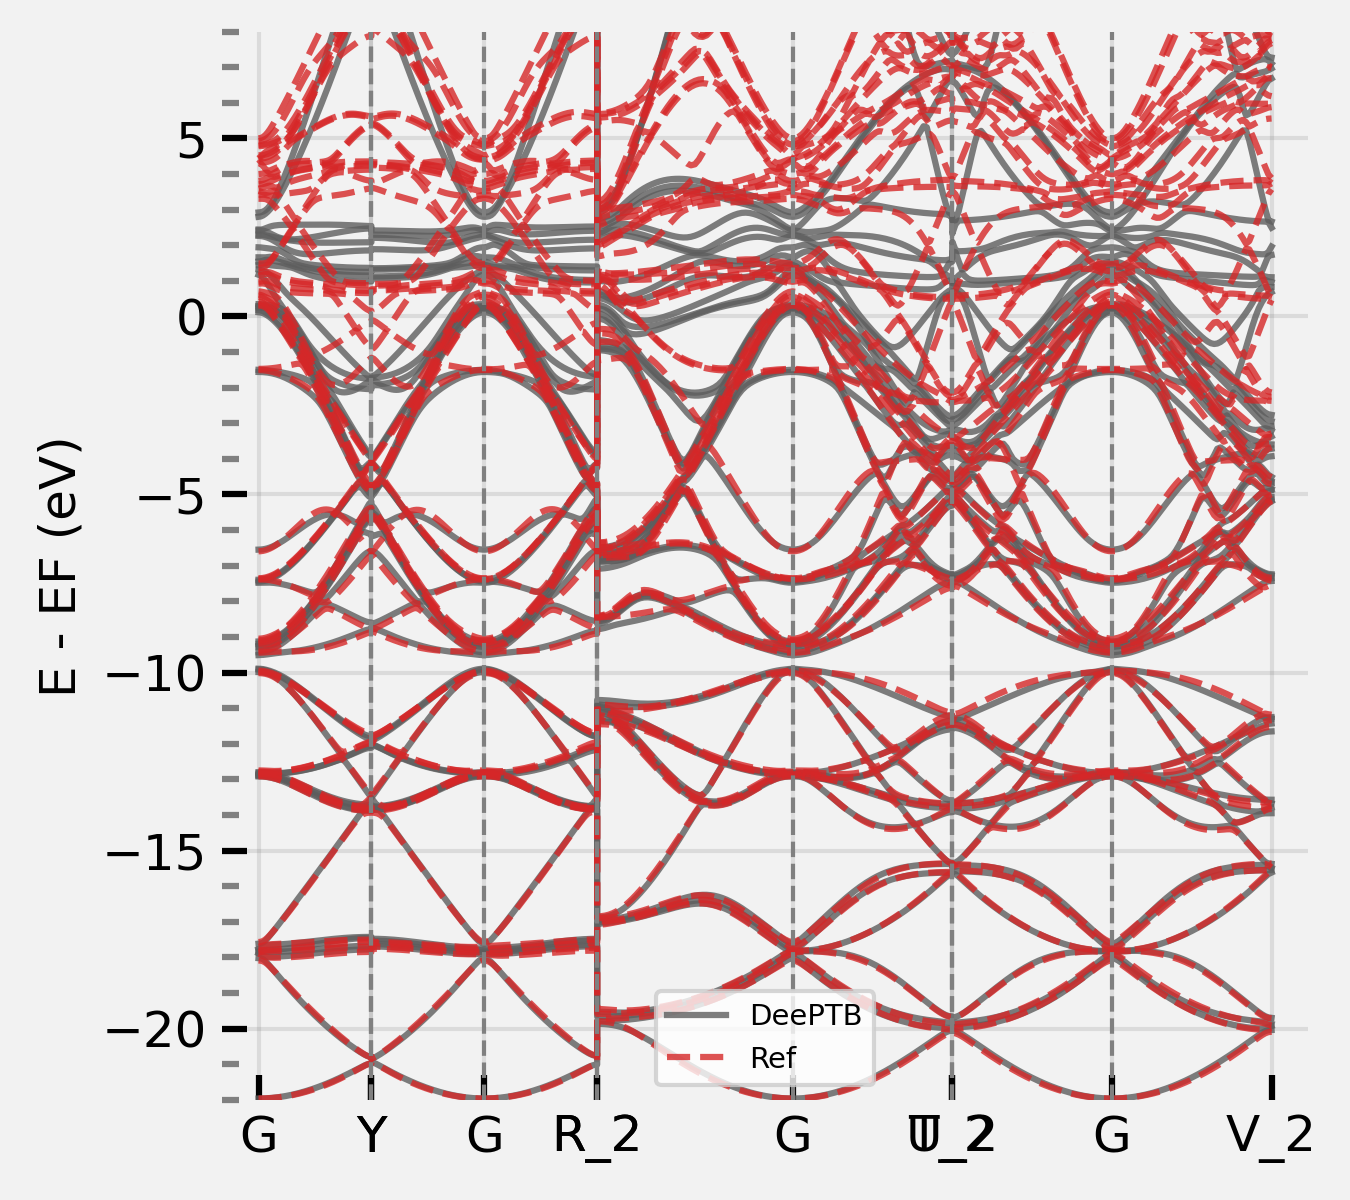
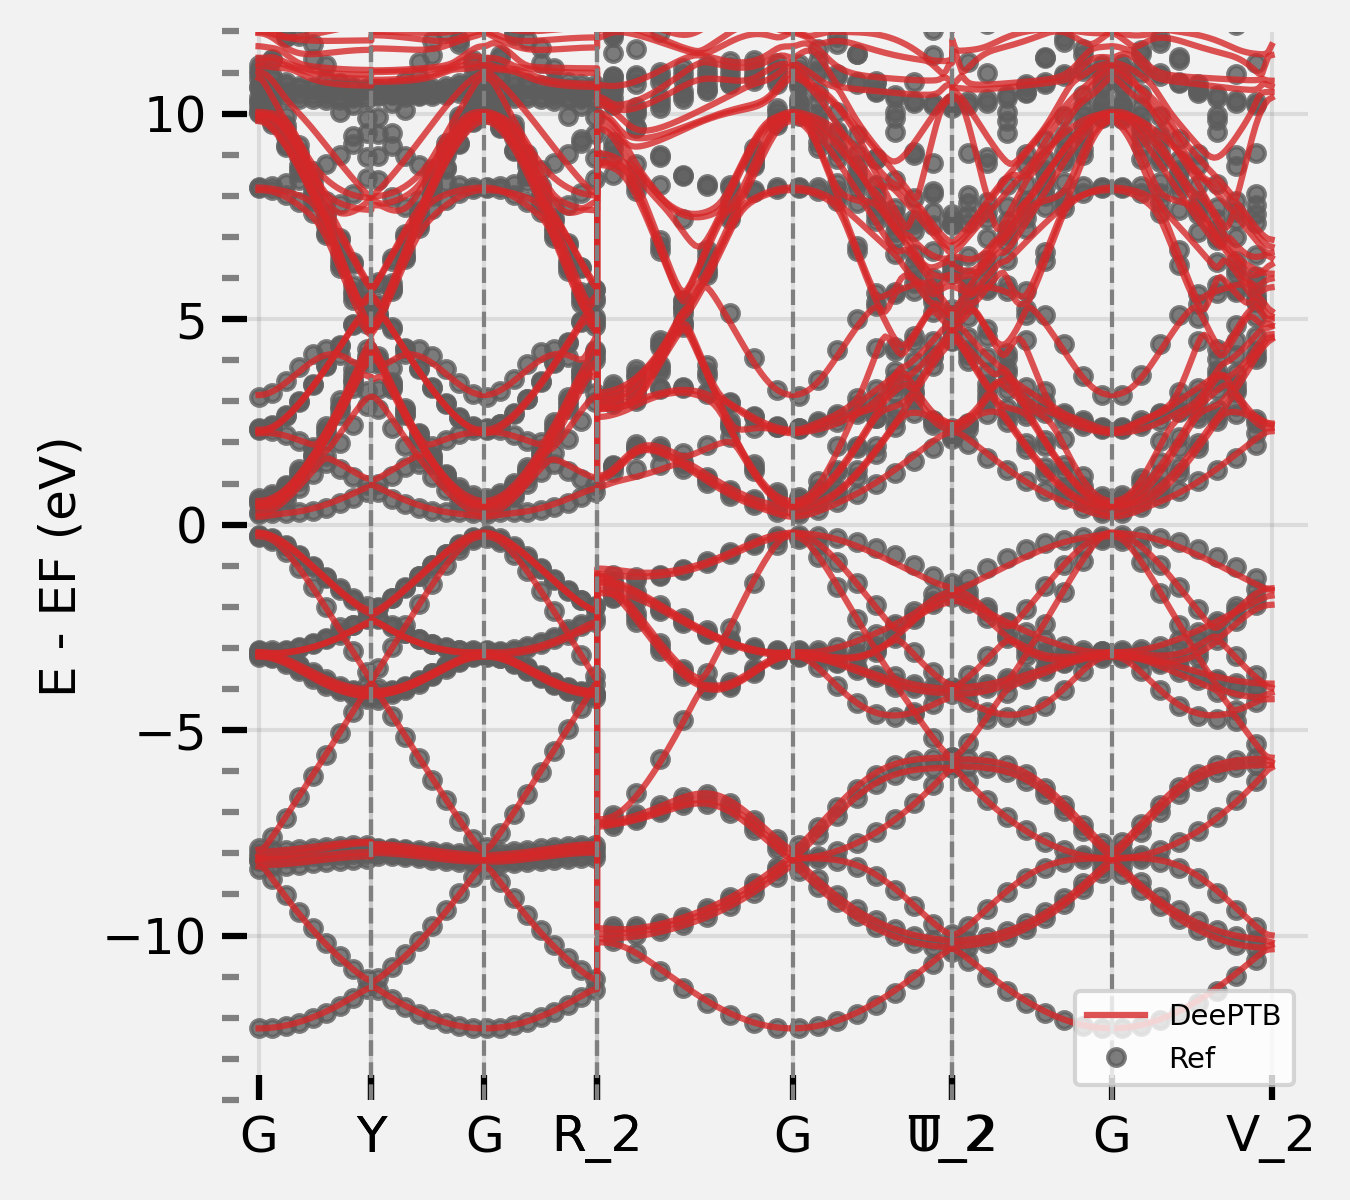
update example of silicon

diff --git a/examples/silicon/README.md b/examples/silicon/README.md
@@ -60,6 +60,39 @@ Let's plot the converged `nnsk` model in last step, using `band.json` in `run/`,
 ```bash
 dptb run -sk run/band.json -i ./ckpt/2-1_best_nnsk_b2.600_c2.600_w0.300.pth -o ./band
 ```
+The file `band.json` includes the parameters to plot the band structure. 
+```json
+
+{   
+    "structure":"./data/silicon.vasp",
+    "task_options": {
+        "task": "band",
+        "kline_type":"abacus",
+        "kpath":[[0.0000000000,  0.0000000000,   0.0000000000,  50],   
+                [0.5000000000,   0.0000000000,   0.5000000000,  50],               
+                [0.6250000000,   0.2500000000,   0.6250000000,  1],    
+                [0.3750000000,   0.3750000000,   0.7500000000,  50],     
+                [0.0000000000,   0.0000000000,   0.0000000000,  50],    
+                [0.5000000000,   0.5000000000,   0.5000000000,  50],                
+                [0.5000000000,   0.2500000000,   0.7500000000,  50],               
+                [0.5000000000,   0.0000000000,   0.5000000000,  1 ]
+                ],
+        "klabels":["G","X","X/U","K","G","L","W","X"],
+        "E_fermi":-7.5,
+        "emin":-12,
+        "emax":12,
+        "ref_band": "./data/kpath.0/eigs.npy"
+    }
+}
+```
+- `task`: the task to run, here we plot the band structure.
+- `kline_type`: the type of kpath, here we use the abacus kpath.
+- `kpath`: shape (:,4), here [:,:3] is the kpath, using the kpoints at the high symmetry points to define kpath, [:,3] is the number of kpoints in between two high symmetry points.
+- `klabels`: the labels of high symmetry points.
+- `E_fermi`: the fermi energy of the system.
+- `emin`: the minimum energy of the bandstructure.
+- `emax`: the maximum energy of the bandstructure.
+- `ref_band`: the reference bandstructure, here we use the bandstructure of the primary cell calculated by abacus with the same kpath setting.
 
 we can see, the fitted model has already captured the shape of the valance bands. However, the conductance band is less accurate since the orbitals `3s` and `3p` is not complete for the space spaned by the considered valance and conductance band. Therefore we need to include more orbitals in the model. 
 
@@ -86,7 +119,11 @@ dptb train -sk ./ckpt/2-2-1_input.json -i ./ckpt/2-1_best_nnsk_b2.600_c2.600_w0.
 ```
 
 In this way, the parameters in `nnsk` model corresponding to `3s` and `3p` orbitals can be reloaded. 
-When convergence is achieved, we can plot the band structure, which shows that both the valance and conductance band are fitted well:
+When convergence is achieved, we can plot the band structure, using the command:
+```bash
+dptb run -sk run/band.json -i ./ckpt/2-2-1_best_nnsk_b2.600_c2.600_w0.300.pth -o ./band
+```
+which shows that both the valance and conductance band are fitted well:
 
 <div align=center>
 <img src="./img/2_band.png" width = "60%" height = "60%" alt="hBN Bands" align=center />
